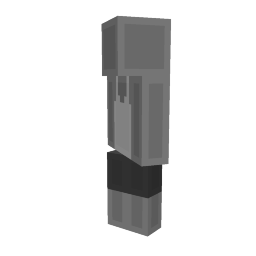
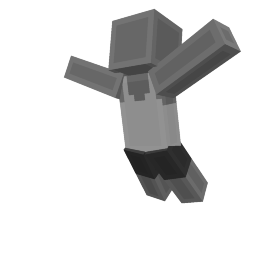
Updated emotes

Changed region(s): [[0.25, 0.0312, 0.9375, 0.9375]]

diff --git a/README.md b/README.md
@@ -101,6 +101,7 @@ This repository is scheduled to update every 6 hours automatically. A raw versio
 | <img src="./images/9cb096e8-3220-af69-a311-4d7473866c84.png" width="128" height="128" /> | Cheerleading | 9cb096e8-3220-af69-a311-4d7473866c84 |
 | <img src="./images/d3c0dc87-f568-0aa3-9565-d30fcde8ef6a.png" width="128" height="128" /> | Cheerleading | d3c0dc87-f568-0aa3-9565-d30fcde8ef6a |
 | <img src="./images/e023347d-e9bf-a884-1213-eecef49c5e56.png" width="128" height="128" /> | Chicken Dance | e023347d-e9bf-a884-1213-eecef49c5e56 |
+| <img src="./images/1c082444-afe2-2223-7c7f-1d0e9fe5a5e0.png" width="128" height="128" /> | Chicken Flying | 1c082444-afe2-2223-7c7f-1d0e9fe5a5e0 |
 | <img src="./images/c6231238-3869-4acd-8f8e-818a34a59c2c.png" width="128" height="128" /> | Chill Victory | c6231238-3869-4acd-8f8e-818a34a59c2c |
 | <img src="./images/043d6f77-f539-2df1-8f81-137d2b650787.png" width="128" height="128" /> | Chilling | 043d6f77-f539-2df1-8f81-137d2b650787 |
 | <img src="./images/af61c759-6252-431d-a7de-94d477cfb54c.png" width="128" height="128" /> | Chun-Li Spinning Kick | af61c759-6252-431d-a7de-94d477cfb54c |
@@ -123,6 +124,7 @@ This repository is scheduled to update every 6 hours automatically. A raw versio
 | <img src="./images/f99ccd35-ebda-4122-b458-ff8c9f9a432f.png" width="128" height="128" /> | Cowpoke Dancin' | f99ccd35-ebda-4122-b458-ff8c9f9a432f |
 | <img src="./images/e90d32e1-bb24-c68b-33b6-117b51209109.png" width="128" height="128" /> | Crazy Rider | e90d32e1-bb24-c68b-33b6-117b51209109 |
 | <img src="./images/88025a03-fe17-4f3c-a620-21ba47a0ddf5.png" width="128" height="128" /> | Crossack | 88025a03-fe17-4f3c-a620-21ba47a0ddf5 |
+| <img src="./images/7e7efcf4-3100-1dea-b126-c89903492b35.png" width="128" height="128" /> | Crowd Kisses | 7e7efcf4-3100-1dea-b126-c89903492b35 |
 | <img src="./images/4d9167f2-019c-2033-244c-d470ff86ef51.png" width="128" height="128" /> | Curtsy | 4d9167f2-019c-2033-244c-d470ff86ef51 |
 | <img src="./images/6edc87cc-0285-29a8-47a4-aa0d423b327d.png" width="128" height="128" /> | Cute Laying Down | 6edc87cc-0285-29a8-47a4-aa0d423b327d |
 | <img src="./images/17356799-2d42-54c6-deb8-6f78d8a4a35d.png" width="128" height="128" /> | Cute Roll | 17356799-2d42-54c6-deb8-6f78d8a4a35d |
@@ -170,10 +172,6 @@ This repository is scheduled to update every 6 hours automatically. A raw versio
 | <img src="./images/4c815b7c-1f7c-bf8c-64d6-4f8948c56ebf.png" width="128" height="128" /> | Eagle | 4c815b7c-1f7c-bf8c-64d6-4f8948c56ebf |
 | <img src="./images/9e902cf9-4416-558c-eef1-426f5fe2d020.png" width="128" height="128" /> | Eagle | 9e902cf9-4416-558c-eef1-426f5fe2d020 |
 | <img src="./images/6e0c1592-aed2-ad36-95be-5f854bd28546.png" width="128" height="128" /> | Elevate | 6e0c1592-aed2-ad36-95be-5f854bd28546 |
-| <img src="./images/1c082444-afe2-2223-7c7f-1d0e9fe5a5e0.png" width="128" height="128" /> | Emote 1 | 1c082444-afe2-2223-7c7f-1d0e9fe5a5e0 |
-| <img src="./images/7e7efcf4-3100-1dea-b126-c89903492b35.png" width="128" height="128" /> | Emote 2 | 7e7efcf4-3100-1dea-b126-c89903492b35 |
-| <img src="./images/48db5bc8-b360-6ffd-f034-d013918e157b.png" width="128" height="128" /> | Emote 3 | 48db5bc8-b360-6ffd-f034-d013918e157b |
-| <img src="./images/4d87632b-5391-a28d-424a-5a87923a2f87.png" width="128" height="128" /> | Emote 4 | 4d87632b-5391-a28d-424a-5a87923a2f87 |
 | <img src="./images/c4d87a21-d4c4-498b-8bc1-5dd78c895e9f.png" width="128" height="128" /> | Enamoured | c4d87a21-d4c4-498b-8bc1-5dd78c895e9f |
 | <img src="./images/13634fe0-ba1d-4db6-9fc4-c2af1c082f34.png" width="128" height="128" /> | Energetic Jumping | 13634fe0-ba1d-4db6-9fc4-c2af1c082f34 |
 | <img src="./images/c4a34f85-f0c4-b78b-1513-4726549361fa.png" width="128" height="128" /> | Energetic Rave | c4a34f85-f0c4-b78b-1513-4726549361fa |
@@ -252,3 +250,5 @@ This repository is scheduled to update every 6 hours automatically. A raw versio
 | <img src="./images/c1b25df4-88ab-c758-7df8-faffee9e832c.png" width="128" height="128" /> | Gangnam Style Dance | c1b25df4-88ab-c758-7df8-faffee9e832c |
 | <img src="./images/a72ea226-06ee-ad9c-1fd6-5d8543ce7b0c.png" width="128" height="128" /> | Gasp | a72ea226-06ee-ad9c-1fd6-5d8543ce7b0c |
 | <img src="./images/e0b54d13-6a1b-1871-04ca-9577d178ebaa.png" width="128" height="128" /> | Get It Off Me | e0b54d13-6a1b-1871-04ca-9577d178ebaa |
+| <img src="./images/a237e7cb-47da-710f-75b5-66818ae4fb01.png" width="128" height="128" /> | Get Over Here | a237e7cb-47da-710f-75b5-66818ae4fb01 |
+| <img src="./images/5a5b2c0c-a924-4e13-a99b-4c12e3f02e1e.png" width="128" height="128" /> | Ghast Dancing | 5a5b2c0c-a924-4e13-a99b-4c12e3f02e1e |
